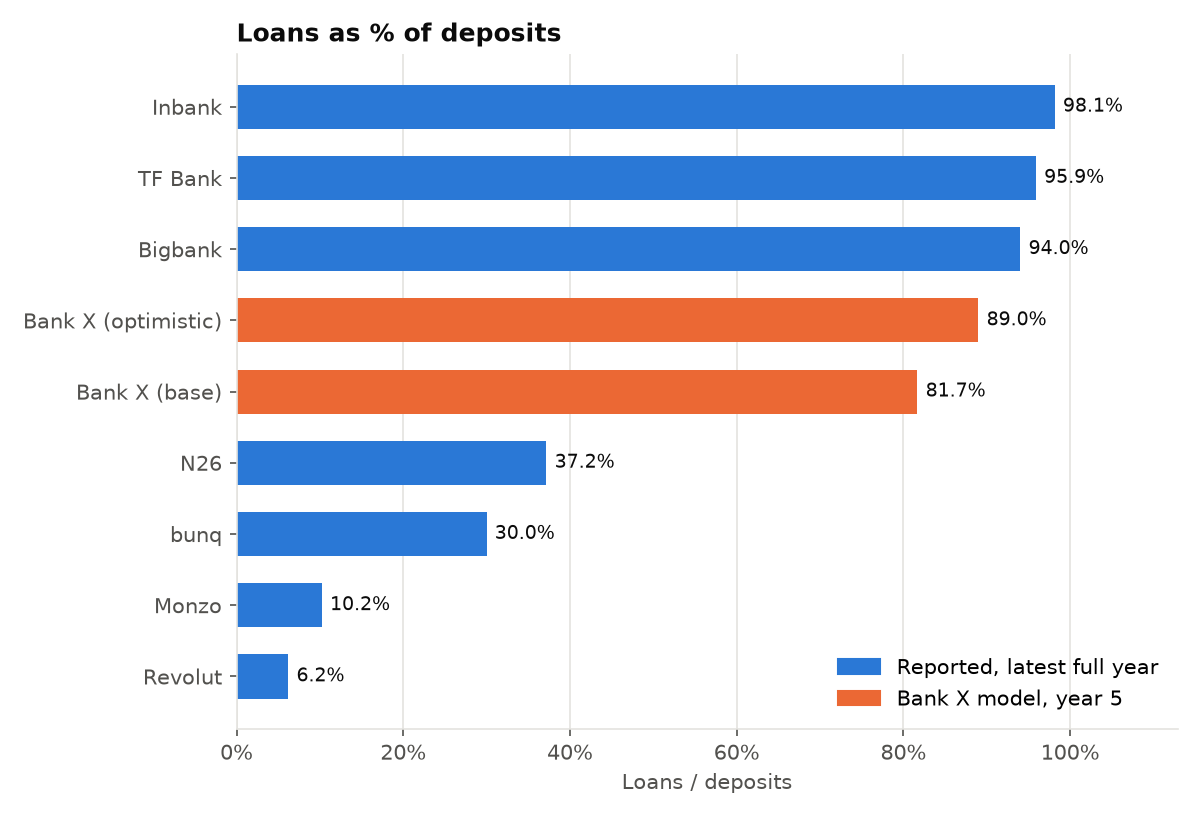
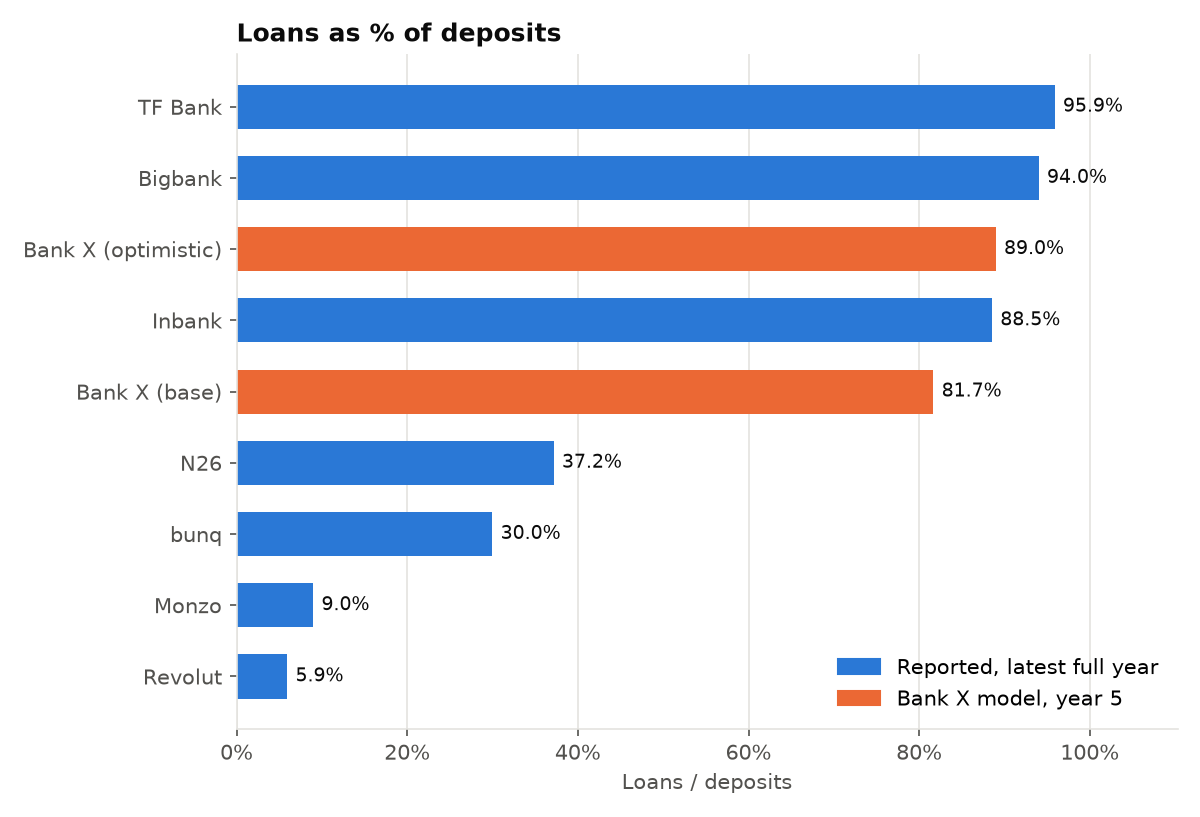
Fix review findings: consistent definitions, audited sources, modest findings
- Fees / income is net fee income / total net operating income for every bank
  (Revolut 72.6%, Monzo 28.0%, N26 42.7%).
- Loan yield uses interest income on customer loans where reported
  (TF Bank 15.3%, Inbank 11.0% excl. rental); spread caveated as approximate.
- Loans are net balance-sheet loans for every bank (Inbank excl. rental fleet,
  Revolut and Monzo net instead of gross).
- Monzo cost/income is statutory 76.1% instead of adjusted 74%.
- Inbank, Bigbank and TF Bank values now cite the audited 2025 annual reports.
- ROE: add prior-year equity and a +/-1pp test against net profit / average
  equity; TF Bank checked on its stated basis (excl. Tier 1 instrument).
- Findings reworded: "in this sample", Revolut counterexample, Bigbank's
  secured mix, Inbank core ROE, Bank X pricing "by assumption".
- README: source types, page caveat, HGB, ROE bases, bunq 2024 wording,
  computed markers generated from the yaml notes.

Bank X rows in data/benchmarks.yaml are unchanged.

diff --git a/benchmarks/findings.py b/benchmarks/findings.py
@@ -12,6 +12,10 @@ def _range(values: list[float]) -> str:
     return f"{min(values):.0%}-{max(values):.0%}"
 
 
+def _eur_bn(ds: Dataset, c: Company, key: str) -> str:
+    return f"EUR {ds.to_eur(c, key) / 1000:.2f}bn"
+
+
 def findings(ds: Dataset) -> list[str]:
     c = _by_code(ds)
     reported = [x for x in ds.companies if not x.is_model]
@@ -19,16 +23,24 @@ def findings(ds: Dataset) -> list[str]:
     lenders = [x for x in reported if ltd[x.code] and ltd[x.code] >= 0.8]
     neobanks = [x for x in reported if ltd[x.code] and ltd[x.code] < 0.8 and (x.get("fee_share") or 0) < 0.5]
     rev = c["REV"]
+    # Non-consumer lending inside the neobanks' loan books (mortgages, municipal loans)
+    secured = [
+        f"{x.name} " + " and ".join(f"{_eur_bn(ds, x, k)} {ds.metric(k).label.lower()}"
+                                    for k in ("municipal_loans", "mortgages") if x.get(k))
+        for x in neobanks if x.get("mortgages") or x.get("municipal_loans")
+    ]
 
     first = (
-        "Lending margin, not app scale, drives returns for deposit-funded banks. "
-        f"The consumer lenders that lend out most of their deposits ({', '.join(x.name for x in lenders)}; "
+        "In this sample, the banks that lend out most of their deposits earned higher returns than the deposit-heavy neobanks. "
+        f"These deposit-funded lenders ({', '.join(x.name for x in lenders)}; "
         f"loans {_range([ltd[x.code] for x in lenders])} of deposits) earn ROE of {_range([x.get('roe') for x in lenders])} "
         f"at cost/income of {_range([x.get('cost_income') for x in lenders])}. "
-        f"The deposit-heavy neobanks ({', '.join(x.name for x in neobanks)}) lend out only "
-        f"{_range([ltd[x.code] for x in neobanks])} of deposits and earn {_range([x.get('roe') for x in neobanks])}. "
-        f"{rev.name} is the exception: {rev.get('fee_share'):.0%} of revenue from fees and ROE of about {rev.get('roe'):.0%}, "
-        f"with loans only {ltd['REV']:.0%} of deposits."
+        f"{', '.join(x.name for x in neobanks[:-1])} and {neobanks[-1].name} have loans of only "
+        f"{_range([ltd[x.code] for x in neobanks])} of deposits, and much of that is not consumer lending "
+        f"({'; '.join(secured)}). They earn ROE of {_range([x.get('roe') for x in neobanks])}. "
+        f"{rev.name} does not fit this pattern: it has the highest ROE ({rev.get('roe'):.0%}) with loans of only "
+        f"{ltd['REV']:.0%} of deposits, because net fees are {rev.get('fee_share'):.0%} of its net income. "
+        f"Seven banks are too few to show cause and effect."
     )
 
     spread = sorted(
@@ -38,11 +50,14 @@ def findings(ds: Dataset) -> list[str]:
     )
     tf, big = c["TFB"], c["BIG"]
     second = (
-        "Cost of risk is a pricing choice, not a verdict. "
-        f"{tf.name} loses {tf.get('cost_of_risk'):.1%} of its loans a year and still earns {tf.get('roe'):.0%} ROE "
-        f"because it charges about {tf.get('loan_yield'):.0%}; {big.name} loses only {big.get('cost_of_risk'):.1%} "
-        f"but earns {big.get('loan_yield'):.1%} on loans. Loan yield minus cost of risk: "
-        + ", ".join(f"{x.name} {s:.1%}" for x, s in spread) + "."
+        "Cost of risk reflects what a bank lends and how it prices it. "
+        f"{tf.name} loses {tf.get('cost_of_risk'):.1%} of its loans a year and still earns {tf.get('roe'):.0%} ROE, "
+        f"because its loans yield about {tf.get('loan_yield'):.0%}. {big.name} loses only {big.get('cost_of_risk'):.1%} "
+        f"and earns {big.get('loan_yield'):.1%} on loans, mainly because most of its book is business and home loans, "
+        f"largely secured on real estate; unsecured consumer loans are only {big.get('consumer_loan_share'):.0%} of its portfolio. "
+        "Loan yield minus cost of risk: "
+        + ", ".join(f"{x.name} {s:.1%}" for x, s in spread)
+        + ". This spread is approximate (the loan bases differ slightly between banks) and is before funding cost."
     )
 
     bx, inb = c["BANKX"], c["INB"]
@@ -50,11 +65,14 @@ def findings(ds: Dataset) -> list[str]:
     third = (
         "How Bank X year 5 compares to Inbank today: "
         f"a loan book of EUR {bx.get('loans'):.0f}m is {bx.get('loans') / inb.get('loans'):.0%} of Inbank's "
-        f"EUR {inb.get('loans') / 1000:.2f}bn, with the same pricing (loan yield {bx.get('loan_yield'):.1%} vs "
-        f"{inb.get('loan_yield'):.1%}). ROE is {bx.get('roe'):.1%} vs {inb.get('roe'):.1%} because cost of risk is higher "
-        f"({bx.get('cost_of_risk'):.2%} vs {inb.get('cost_of_risk'):.2%}, mostly day-one IFRS 9 provisions on a fast-growing book) "
+        f"EUR {inb.get('loans') / 1000:.2f}bn. Loan pricing is the same by assumption: Bank X's loan yield of "
+        f"{bx.get('loan_yield'):.1%} is calibrated to Inbank's {inb.get('loan_yield'):.1%}. "
+        f"ROE is {bx.get('roe'):.1%}, against {inb.get('roe_core'):.1%} for Inbank's core business "
+        f"({inb.get('roe'):.1%} reported, which includes a one-off gain from the reassessment of Polish tax assets). "
+        f"The gap has two causes: cost of risk is higher "
+        f"({bx.get('cost_of_risk'):.2%} vs {inb.get('cost_of_risk'):.2%}, mostly day-one IFRS 9 provisions on a fast-growing book), "
         f"and the bank is still sub-scale (cost/income {bx.get('cost_income'):.0%} vs {inb.get('cost_income'):.0%}). "
         f"The optimistic case (ROE {opt.get('roe'):.0%}, cost/income {opt.get('cost_income'):.0%}) would need "
-        f"efficiency between Bigbank ({big.get('cost_income'):.0%}) and TF Bank ({tf.get('cost_income'):.0%})."
+        f"efficiency between {big.name} ({big.get('cost_income'):.0%}) and {tf.name} ({tf.get('cost_income'):.0%})."
     )
     return [first, second, third]

diff --git a/benchmarks/report.py b/benchmarks/report.py
@@ -52,6 +52,33 @@ def _fmt(ds: Dataset, c: Company, key: str, source: str) -> str:
     return f"{sym}{v / 1000:,.2f}bn" if abs(v) >= 1000 else f"{sym}{v:,.1f}m"
 
 
+def _is_computed(c: Company, key: str) -> bool:
+    """True when the yaml note says the value was computed from reported lines, not published as is."""
+    v = c.values.get(key)
+    return bool(v and v.value is not None and v.note.lower().startswith("computed"))
+
+
+def _cell(ds: Dataset, c: Company, key: str, source: str) -> str:
+    """Formatted value with a * marker for computed values."""
+    return _fmt(ds, c, key, source) + ("*" if source == "reported" and _is_computed(c, key) else "")
+
+
+# Columns of the README table
+README_COLUMNS = ["total_assets", "loans", "deposits", "net_profit", "roe", "cost_income", "cost_of_risk",
+                  "loan_yield", "fee_share", "loan_to_deposit"]
+
+
+def readme_table(ds: Dataset) -> str:
+    cols = [t for t in TABLE if t[0] in README_COLUMNS]
+    lines = ["| Company | Period | " + " | ".join(label for _, label, _ in cols) + " |",
+             "|" + "---|" * (len(cols) + 2)]
+    for c in ds.companies:
+        name, period = (f"**{c.name}, year 5**", "model") if c.is_model else (c.name, c.period.replace("FY Mar-", "FY to Mar-"))
+        cells = [_cell(ds, c, k, s) for k, _, s in cols]
+        lines.append(f"| {name} | {period} | " + " | ".join(cells) + " |")
+    return "\n".join(lines) + "\n"
+
+
 def _style(ax, title: str) -> None:
     ax.set_title(title, loc="left", fontsize=12, fontweight="bold", color=INK)
     ax.spines[["top", "right"]].set_visible(False)
@@ -134,7 +161,8 @@ def write_markdown(ds: Dataset, findings: list[str], path: Path) -> None:
     head = ["Company", "Period"] + [label for _, label, _ in TABLE]
     lines += ["", "| " + " | ".join(head) + " |", "|" + "---|" * len(head)]
     for c in ds.companies:
-        lines.append("| " + " | ".join([c.name, c.period] + [_fmt(ds, c, k, s) for k, _, s in TABLE]) + " |")
+        lines.append("| " + " | ".join([c.name, c.period] + [_cell(ds, c, k, s) for k, _, s in TABLE]) + " |")
+    lines += ["", "\\* Computed from reported lines; inputs are in the source note in data/benchmarks.yaml."]
     flagged = _flagged(ds)
     if flagged:
         lines += ["", "## Values flagged needs_check", ""] + [f"- {f}" for f in flagged]
@@ -166,7 +194,8 @@ def write_html(ds: Dataset, findings: list[str], charts: list[Path], path: Path)
              f"<meta name='viewport' content='width=device-width,initial-scale=1'><style>{CSS}</style></head>",
              "<body><main class='viz-root'>",
              f"<h1>{e(ds.title)}</h1><p class='muted'>Data as of {e(ds.as_of)}. Amounts in reporting currency. "
-             "Hover a value for its source note; <span class='flag'>*</span> = needs check. "
+             "Hover a value for its source note; * = computed from reported lines; "
+             "<span class='flag'>(check)</span> = needs check. "
              "Shaded rows are the Bank X model, not reported results.</p>",
              "<h2>Findings</h2><ol>"]
     parts += [f"<li>{e(f)}</li>" for f in findings]
@@ -180,8 +209,9 @@ def write_html(ds: Dataset, findings: list[str], charts: list[Path], path: Path)
             text = _fmt(ds, c, key, source)
             v = c.values.get(key) if source == "reported" else None
             tip = " | ".join(x for x in [v.note, v.source] if x) if v else "Computed from reported loans, deposits, equity and assets"
-            flag = "<span class='flag'>*</span>" if v and v.needs_check else ""
-            parts.append(f"<td title='{e(tip)}'>{e(text)}{flag}</td>")
+            mark = "*" if source == "reported" and _is_computed(c, key) else ""
+            flag = " <span class='flag'>(check)</span>" if v and v.needs_check else ""
+            parts.append(f"<td title='{e(tip)}'>{e(text)}{mark}{flag}</td>")
         parts.append("</tr>")
     parts.append("</table></div>")
     for chart in charts:

diff --git a/tests/test_benchmarks.py b/tests/test_benchmarks.py
@@ -43,12 +43,41 @@ def test_balance_sheet_sizes_are_consistent(ds):
                 assert c.get(k) <= assets, f"{c.code}: {k} > total assets"
 
 
-def test_reported_roe_close_to_profit_over_equity(ds):
-    """ROE should be within a few points of net profit / closing equity (average equity is used in reports)."""
+# Banks whose stated ROE uses a different basis than net profit / average total equity.
+# TF Bank: profit to shareholders / average equity excluding its SEK 250m Tier 1 instrument
+# (annual report 2025 p13, p26-27): 641.2 / ((3,038.0 + 2,522.7) / 2) = 23.1%. See the yaml note on TFB/roe.
+ROE_STATED_BASIS = {"TFB": 641.2 / ((3038.0 + 2522.7) / 2)}
+
+
+def test_roe_matches_profit_over_average_equity(ds):
+    """ROE is within 1 percentage point of net profit / average equity (opening and closing equity)."""
+    checked = 0
     for c in ds.companies:
-        roe, profit, equity = c.get("roe"), c.get("net_profit"), c.get("equity")
-        if roe is not None and profit and equity and not c.is_model:
-            assert abs(roe - profit / equity) < 0.12, f"{c.code}: ROE {roe:.1%} vs {profit / equity:.1%}"
+        roe, profit = c.get("roe"), c.get("net_profit")
+        equity, prev = c.get("equity"), c.get("equity_prev")
+        if c.is_model or roe is None or profit is None:
+            continue
+        assert equity and prev, f"{c.code}: ROE needs equity and equity_prev to be checked"
+        expected = ROE_STATED_BASIS.get(c.code, profit / ((equity + prev) / 2))
+        assert abs(roe - expected) < 0.01, f"{c.code}: ROE {roe:.1%} vs computed {expected:.1%}"
+        checked += 1
+    assert checked >= 7
+
+
+def test_tf_bank_roe_on_total_equity_is_lower(ds):
+    """The exception is real: on total equity TF Bank's ROE is about 1 point lower than stated."""
+    tf = next(c for c in ds.companies if c.code == "TFB")
+    on_total = tf.get("net_profit") / ((tf.get("equity") + tf.get("equity_prev")) / 2)
+    assert 0.005 < tf.get("roe") - on_total < 0.02
+
+
+def test_fee_share_is_net_fee_over_total_income(ds):
+    """Every bank's fee share uses one definition (net fee income / total net income); the note must show net fees."""
+    for c in ds.companies:
+        v = c.values.get("fee_share")
+        if c.is_model or not v or v.value is None:
+            continue
+        assert "net fee" in v.note.lower(), f"{c.code}: fee share note does not show net fee income"
 
 
 def test_fx_conversion(ds):

diff --git a/run.py b/run.py
@@ -12,11 +12,11 @@ from pathlib import Path
 
 from benchmarks.data import load, validate
 from benchmarks.findings import findings
-from benchmarks.report import write_charts, write_html, write_markdown
+from benchmarks.report import readme_table, write_charts, write_html, write_markdown
 
 
 def main() -> None:
-    parser = argparse.ArgumentParser(description="Benchmark digital and consumer-lending banks against Bank X")
+    parser = argparse.ArgumentParser(description="Benchmark digital banks and deposit-funded lenders against Bank X")
     parser.add_argument("--data", default="data/benchmarks.yaml", help="Path to the benchmarks YAML")
     parser.add_argument("--out", default="output", help="Output folder")
     args = parser.parse_args()
@@ -32,6 +32,7 @@ def main() -> None:
     charts = write_charts(ds, out)
     write_markdown(ds, found, out / "summary.md")
     write_html(ds, found, charts, out / "report.html")
+    (out / "readme_table.md").write_text(readme_table(ds), encoding="utf-8")
 
     print(f"{'Company':<22}{'Period':<10}{'ROE':>8}{'C/I':>8}{'CoR':>8}{'Assets EUR bn':>15}")
     for c in ds.companies:

diff --git a/benchmarks/__init__.py b/benchmarks/__init__.py
@@ -1,1 +1,1 @@
-"""Benchmark digital and consumer-lending banks against the Bank X model."""
+"""Benchmark digital banks and deposit-funded lenders against the Bank X model."""

diff --git a/README.md b/README.md
@@ -1,20 +1,18 @@
-# Digital and consumer-lending banks: public benchmarks vs Bank X
+# Digital banks and deposit-funded lenders: public benchmarks vs Bank X
 
-A source-backed benchmark of seven European digital and consumer-lending banks, built from their latest annual reports and compared with year 5 of the [Bank X model](https://github.com/udrism-lang/bank-model). Bank X is a planned deposit-funded digital consumer lender.
+A source-backed benchmark of seven European digital banks and deposit-funded lenders, compared with year 5 of the [Bank X model](https://github.com/udrism-lang/bank-model). Bank X is a planned deposit-funded digital consumer lender.
 
-Every figure has a source URL and page number. Ratios a company does not publish are computed from its reported lines, and the inputs are shown in the data file. One command produces the table, charts and a single-file HTML report.
+The figures come from each bank's audited annual report for 2025 (Monzo: year to March 2026). A few values come from other sources, and the data file says so: Inbank's ROE figures (Q4 2025 interim report), TF Bank's customer count (results presentation) and N26's customer count (press release).
+
+Every value has a source URL. Most also have a page number. Ratios a company does not publish on the same basis are computed from its reported lines, and the data file lists the inputs. Customer counts and the Bank X rows have no page number. One command produces the table, charts and a single-file HTML report.
 
 Related: [bank-jurisdiction-compare](https://github.com/udrism-lang/bank-jurisdiction-compare), which compares where the same bank could be licensed.
 
 ## Key findings
 
-1. **Lending margin, not app scale, drives returns for deposit-funded banks.** The consumer lenders that lend out most of their deposits (Inbank, Bigbank, TF Bank; loans 94-98% of deposits) earn ROE of 12-23% at cost/income of 36-54%. The deposit-heavy neobanks (Monzo, bunq, N26) lend out only 10-37% of deposits and earn 0-7%. Revolut is the exception: 76% of revenue comes from fees, ROE is about 35%, and loans are only 6% of deposits.
-2. **Cost of risk is a pricing choice, not a verdict.** TF Bank loses 4.5% of its loans a year and still earns 23% ROE, because it charges about 16%. Bigbank loses only 0.5% but earns just 6.8% on its loans. Loan yield minus cost of risk: TF Bank 11.4%, Inbank 9.5%, Bank X (base) 8.2%, Bigbank 6.3%, Revolut 5.5%.
-3. **How Bank X year 5 compares to Inbank today.** Bank X's year-5 loan book of EUR 199m is 16% of Inbank's EUR 1.28bn, with the same pricing (loan yield 11.0% vs 11.1%). ROE is 7.3% vs 12.3% for two reasons:
-   - cost of risk is higher, 2.76% vs 1.59%, mostly from day-one IFRS 9 provisions on a fast-growing book;
-   - the bank is still sub-scale, with cost/income of 62% vs 54%.
-
-   The optimistic case (ROE 20%, cost/income 46%) would need efficiency between Bigbank (49%) and TF Bank (36%). That is ambitious for a five-year-old bank, but it has been achieved.
+1. **In this sample, the banks that lend out most of their deposits earned higher returns than the deposit-heavy neobanks.** These deposit-funded lenders (Inbank, Bigbank, TF Bank; loans 89%-96% of deposits) earn ROE of 12%-23% at cost/income of 36%-54%. Monzo, bunq and N26 have loans of only 9%-37% of deposits, and much of that is not consumer lending (bunq EUR 1.46bn mortgages; N26 EUR 1.64bn municipal loans and EUR 1.96bn mortgages). They earn ROE of 0%-7%. Revolut does not fit this pattern: it has the highest ROE (35%) with loans of only 6% of deposits, because net fees are 73% of its net income. Seven banks are too few to show cause and effect.
+2. **Cost of risk reflects what a bank lends and how it prices it.** TF Bank loses 4.5% of its loans a year and still earns 23% ROE, because its loans yield about 15%. Bigbank loses only 0.5% and earns 6.8% on loans, mainly because most of its book is business and home loans, largely secured on real estate; unsecured consumer loans are only 31% of its portfolio. Loan yield minus cost of risk: TF Bank 10.8%, Inbank 9.2%, Bank X (base) 8.2%, Bigbank 6.3%, Revolut 5.5%. This spread is approximate (the loan bases differ slightly between banks) and is before funding cost.
+3. **How Bank X year 5 compares to Inbank today.** A loan book of EUR 199m is 17% of Inbank's EUR 1.15bn. Loan pricing is the same by assumption: Bank X's loan yield of 11.0% is calibrated to Inbank's 11.0%. ROE is 7.3%, against 11.2% for Inbank's core business (12.3% reported, which includes a one-off gain from the reassessment of Polish tax assets). The gap has two causes: cost of risk is higher (2.76% vs 1.76%, mostly day-one IFRS 9 provisions on a fast-growing book), and the bank is still sub-scale (cost/income 62% vs 54%). The optimistic case (ROE 20%, cost/income 46%) would need efficiency between Bigbank (49%) and TF Bank (36%). That is ambitious for a five-year-old bank, but larger banks in this sample have achieved it.
 
 ![ROE vs cost/income](docs/roe_vs_cost_income.png)
 
@@ -26,23 +24,24 @@ Related: [bank-jurisdiction-compare](https://github.com/udrism-lang/bank-jurisdi
 
 | Company | Period | Total assets | Loans | Deposits | Net profit | ROE | Cost / income | Cost of risk | Loan yield | Fees / income | Loans / deposits |
 |---|---|---|---|---|---|---|---|---|---|---|---|
-| Inbank | FY2025 | €1.58bn | €1.28bn | €1.30bn | €19.2m | 12.3% | 54.4% | 1.6% | 11.1% | -5.1% | 98% |
-| Bigbank | FY2025 | €3.32bn | €2.71bn | €2.88bn | €37.9m | 13.3% | 48.6% | 0.5%* | 6.8% | 9.3%* | 94% |
-| TF Bank | FY2025 | SEK 29.1bn | SEK 23.7bn | SEK 24.7bn | SEK 667m | 23.1% | 36.3% | 4.5% | 15.9%* | 7.6%* | 96% |
-| Revolut | FY2025 | £43.0bn | £2.24bn | £36.1bn | £1.30bn | 35.0%* | 51.0%* | 3.8%* | 9.3%* | 76% | 6% |
-| Monzo | FY to Mar-2026 | £27.6bn | £2.63bn | £25.7bn | £86m | 6.9%* | 74.0% | 9.0% | n/a | 26.8%* | 10% |
-| bunq | FY2025 | €9.05bn | €2.53bn | €8.43bn | €22.4m | 5.0%* | 78.0%* | 0.5%* | n/a | 24.2%* | 30% |
-| N26 | FY2025 | €11.1bn | €3.93bn | €10.6bn | €1.6m | 0.4%* | 93.9%* | 0.6%* | n/a | 48.0%* | 37% |
-| **Bank X (base), year 5** | model | €266m | €199m | €243m | €1.6m | 7.3% | 61.6% | 2.8% | 11.0% | 10.4% | 82% |
-| **Bank X (optimistic), year 5** | model | €305m | €241m | €271m | €6.4m | 20.4% | 45.6% | 2.1% | 11.5% | 11.3% | 89% |
+| Inbank | FY2025 | €1.58bn | €1.15bn | €1.30bn | €19.2m | 12.3% | 54.4% | 1.8%* | 11.0%* | -5.1%* | 88.5% |
+| Bigbank | FY2025 | €3.32bn | €2.71bn | €2.88bn | €37.9m | 13.3% | 48.6% | 0.5%* | 6.8% | 9.3%* | 94.0% |
+| TF Bank | FY2025 | SEK 29.12bn | SEK 23.68bn | SEK 24.69bn | SEK 667.0m | 23.1% | 36.3% | 4.5% | 15.3%* | 7.6%* | 95.9% |
+| Revolut | FY2025 | £43.02bn | £2.15bn | £36.14bn | £1.30bn | 35.0%* | 51.0%* | 3.8%* | 9.3%* | 72.6%* | 5.9% |
+| Monzo | FY to Mar-2026 | £27.61bn | £2.31bn | £25.72bn | £86.3m | 6.9%* | 76.1%* | 9.0% | n/a | 28.0%* | 9.0% |
+| bunq | FY2025 | €9.05bn | €2.53bn* | €8.43bn | €22.4m | 5.0%* | 78.0%* | 0.5%* | n/a | 24.2%* | 30.0% |
+| N26 | FY2025 | €11.11bn | €3.93bn | €10.57bn | €1.6m | 0.4%* | 93.9%* | 0.6%* | n/a | 42.7%* | 37.2% |
+| **Bank X (base), year 5** | model | €265.8m | €198.8m | €243.4m | €1.6m | 7.3% | 61.6% | 2.8% | 11.0% | 10.4% | 81.7% |
+| **Bank X (optimistic), year 5** | model | €305.4m | €240.8m | €270.6m | €6.4m | 20.4% | 45.6% | 2.1% | 11.5% | 11.3% | 89.0% |
 
-\* Computed from reported figures, because the company does not publish the ratio. Inputs and page numbers are in [`data/benchmarks.yaml`](data/benchmarks.yaml). The HTML report also has equity, total income, NIM and customer counts.
+\* Computed from reported figures, because the company does not publish the value on this basis. Inputs and page numbers are in [`data/benchmarks.yaml`](data/benchmarks.yaml). Loans / deposits is computed for every bank. The HTML report also has equity, total income, NIM and customer counts.
 
 ## Things the reports do not make obvious
 
-- **bunq's "EUR 85.3m net profit" for 2024 was profit before tax.** The annual report text calls it net profit, but the income statement shows EUR 85.3m as result before tax and EUR 63.6m as result for the period. In 2025, net profit fell to EUR 22.4m.
+- **bunq's "EUR 85.3m net profit" for 2024 was profit before tax.** The text of bunq's 2024 annual report says "our net profit reached EUR 85,3 million" (p18). Its income statement shows EUR 85.3m as result before tax and EUR 63.6m as result for the period (p63). In 2025, net profit fell to EUR 22.4m.
 - **Inbank's net fee income is negative** (-EUR 4.4m in 2025). Fee expense exceeds fee income, so its earnings are almost entirely interest and rental margin.
-- **Revenue is not comparable across these banks.** Revolut and Monzo report gross revenue (before fee and interest expense). This table uses net total income for every bank, so cost/income is measured the same way.
+- **Revenue is not comparable across these banks.** Revolut and Monzo report gross revenue (before fee and interest expense). This table uses total net operating income for every bank. Cost / income and fees / income use it as the denominator. Revolut says fee-based revenues are "76% of our total turnover", which is fee income / gross revenue (p13). On a net basis it is 72.6%.
+- **Monzo's reported cost/income of 74% is adjusted.** It excludes GBP 26.3m of one-off costs. The statutory figure used here is 76.1%.
 - **Customer counts measure different things.** bunq counts 22m "users on the platform", N26 counts 5.6m "revenue-relevant customers", and Monzo 15m customers, of whom 10.4m are monthly active.
 
 ## Comparability
@@ -50,8 +49,12 @@ Related: [bank-jurisdiction-compare](https://github.com/udrism-lang/bank-jurisdi
 - Periods: calendar 2025 for all except Monzo (year to 31 March 2026).
 - Currencies: amounts stay in the reporting currency. Sizes are converted to EUR only in the "Assets EUR bn" column of the console output, at ECB reference rates on 31.12.2025. Ratios are never converted.
 - NIM definitions differ (average interest-earning assets vs average total assets), so NIM is shown in the HTML report but not used in the findings.
+- Accounting: N26 reports under German GAAP (HGB), not IFRS. All other banks report under IFRS.
+- Loans are net loans to customers from each balance sheet. Inbank's figure excludes its rental fleet (Inbank reports a loan and rental portfolio of EUR 1.28bn). N26's loans include EUR 1.64bn municipal loans and EUR 1.96bn mortgages; bunq's include EUR 1.46bn mortgages. Inbank's cost of risk (1.76%) is computed on loans to match its loan yield; Inbank reports 1.59% on the loan and rental portfolio.
+- ROE is net profit / average equity, with three exceptions to keep in mind. TF Bank reports ROE on equity excluding its SEK 250m Tier 1 instrument (22.0% on total equity). Inbank's 12.3% includes a one-off gain on Polish tax assets (core 11.2%). Monzo paid tax of about 1% of profit, so its ROE is not comparable with fully taxed banks.
+- Loan yield is interest income on customer loans / average loans. Bigbank's "return on loans" uses the same definition. Loan bases differ slightly (net or gross loans), so loan yield minus cost of risk is approximate. It is also before funding cost.
 - Bank X cost of risk includes day-one IFRS 9 provisions on new lending, which are high while the loan book grows fast. Its underlying assumption is 2.0%.
-- One value is flagged `needs_check`: TF Bank's 3.4m customers, which come from the results presentation rather than the year-end report.
+- One value is flagged `needs_check`: TF Bank's 3.4m customers, which come from the results presentation rather than the annual report.
 
 ## Run it
 
@@ -71,12 +74,12 @@ pytest -q
 python run.py
 ```
 
-Outputs in `output/`: `report.html` (findings, full table with the source note for each value on hover, charts and a list of sources), `summary.md` and three charts.
+Outputs in `output/`: `report.html` (findings, full table with the source note for each value on hover, charts and a list of sources), `summary.md`, `readme_table.md` (the table above) and three charts. Copy the charts to `docs/` to update this README.
 
 ## Project structure
 
 ```
-data/benchmarks.yaml     every value with source URL, page and note; FX rates with ECB source
+data/benchmarks.yaml     every value with source URL, note and (where available) page; FX rates with ECB source
 benchmarks/data.py       load, validate, FX conversion, derived ratios
 benchmarks/findings.py   the three findings, computed from the data so they stay in sync
 benchmarks/report.py     charts, markdown summary, single-file HTML report
@@ -90,7 +93,8 @@ docs/                    charts used in this README
 - every value has a source or a `needs_check` flag, and a missing value has a note explaining why;
 - ratios are stored as decimals (catches "12.3" typed instead of "0.123");
 - loans and equity never exceed total assets;
-- each reported ROE is consistent with net profit / equity;
+- each ROE is within 1 percentage point of net profit / average equity, using opening and closing equity from the reports (TF Bank is checked on its stated basis, equity excluding its Tier 1 instrument);
+- every fee share uses net fee income;
 - FX conversion applies to amounts only, never to ratios;
 - derived ratios are computed correctly;
 - the Bank X rows are marked as model output, not reported results.
@@ -103,4 +107,4 @@ docs/                    charts used in this README
 
 ---
 
-Built with AI-assisted development (Claude): research agents extracted figures from the annual report PDFs; each figure is recorded with its page reference in `data/benchmarks.yaml`, and the tests check the figures for internal consistency.
+Built with AI-assisted development (Claude): research agents extracted figures from the annual report PDFs; each figure is recorded with its source and, where available, page in `data/benchmarks.yaml`, and the tests check the figures for internal consistency.
